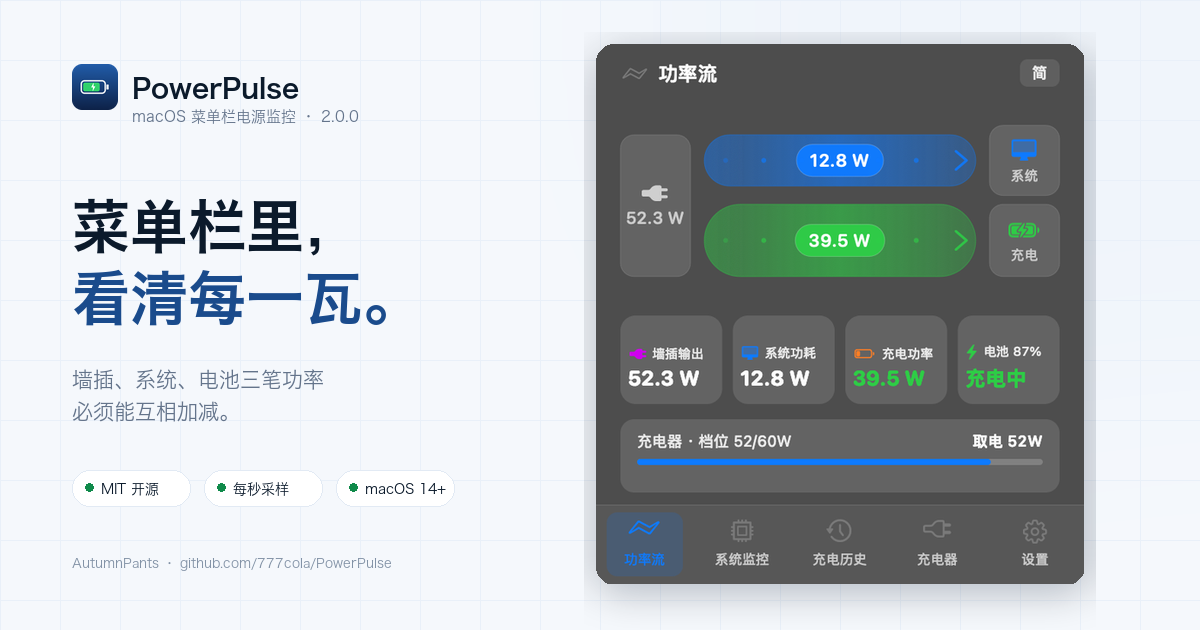
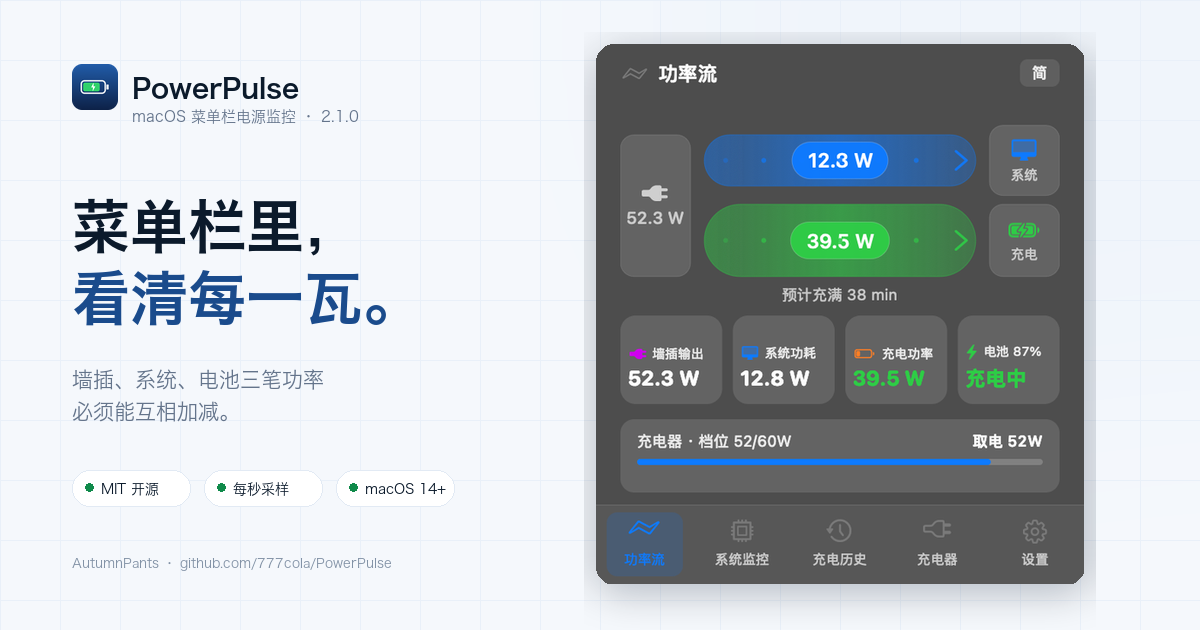
docs: og 图版本号从 build_app.sh 读，不再硬编码
分享预览图里还印着 2.0.0。

diff --git a/tools/gen_og.py b/tools/gen_og.py
@@ -3,6 +3,14 @@
 from PIL import Image, ImageDraw, ImageFont, ImageFilter
 import pathlib
 
+def app_version() -> str:
+    """版本号只认 build_app.sh 里那一处，别到处抄。"""
+    import re, pathlib
+    src = (pathlib.Path(__file__).resolve().parent.parent / "build_app.sh").read_text(encoding="utf-8")
+    m = re.search(r'VERSION="\$\{VERSION:-([^}]+)\}', src)
+    return m.group(1) if m else "0.0.0"
+
+
 DOCS = pathlib.Path(__file__).resolve().parent.parent / "docs"
 W, H = 1200, 630
 PAPER = (245, 248, 252)
@@ -44,7 +52,7 @@ for y in range(0, H, 60):
 icon = Image.open(DOCS / "img" / "appicon.png").convert("RGBA").resize((46, 46), Image.LANCZOS)
 img.paste(icon, (72, 64), icon)
 d.text((132, 74), "PowerPulse", font=font(27, True), fill=INK)
-d.text((132, 108), "macOS 菜单栏电源监控 · 2.0.0", font=font(15), fill=MUTED)
+d.text((132, 108), f"macOS 菜单栏电源监控 · {app_version()}", font=font(15), fill=MUTED)
 
 d.text((72, 196), "菜单栏里，", font=font(58, True), fill=INK)
 d.text((72, 268), "看清每一瓦。", font=font(58, True), fill=BLUE)
